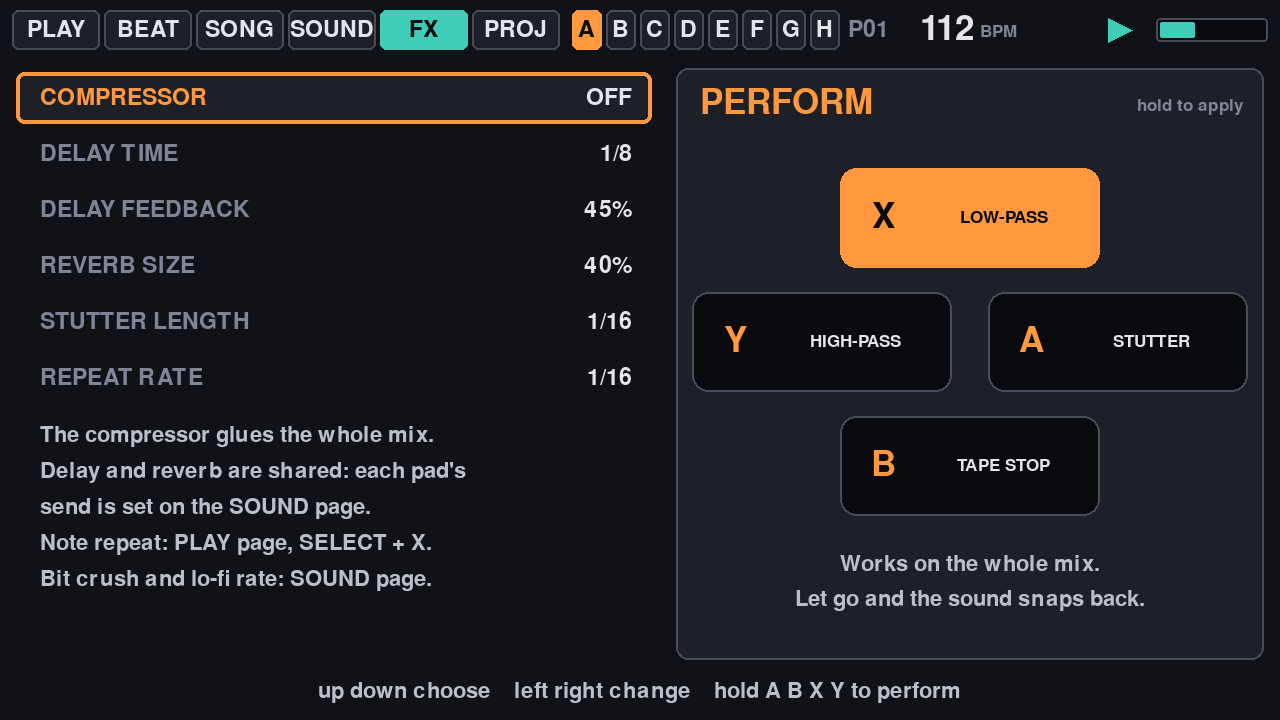
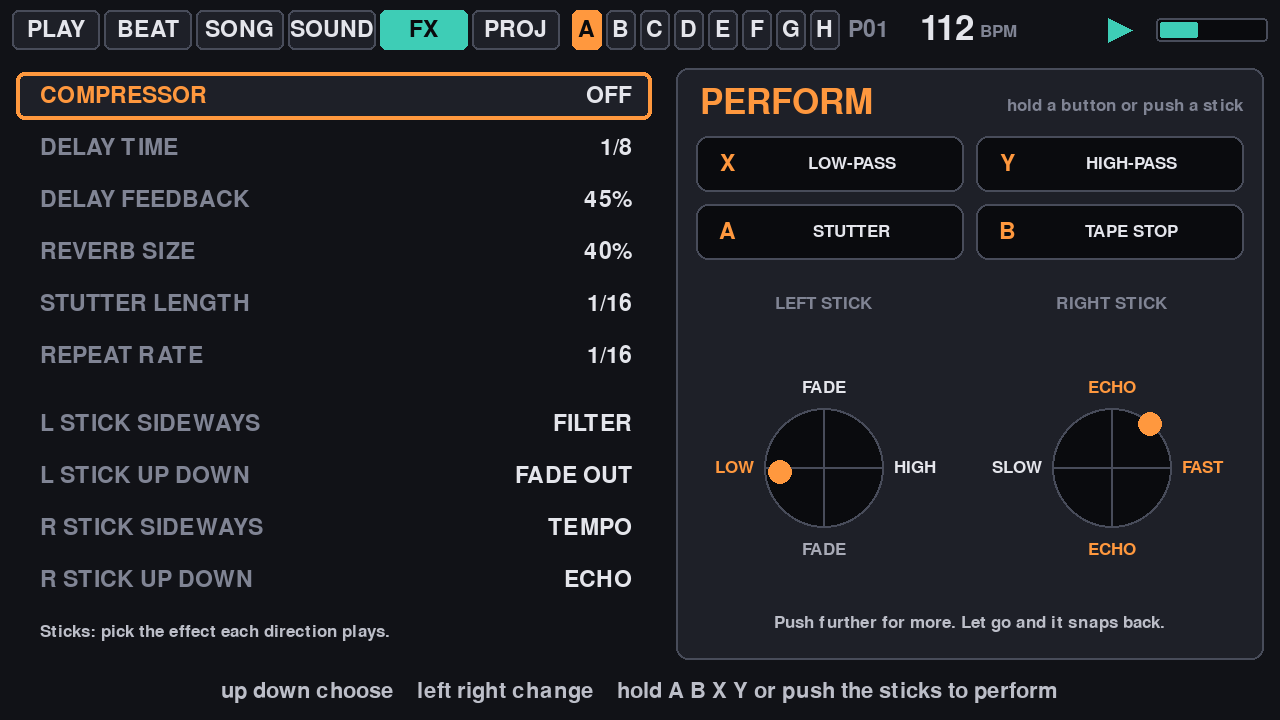
Stick performance effects on the FX page
Each stick direction plays a chosen effect by how far it is pushed: filter,
tempo bend, fade out, echo, reverb, stutter, crush, pan or tape stop.

diff --git a/site/index.html b/site/index.html
@@ -331,8 +331,8 @@ footer { max-width: 72rem; margin: 0 auto; padding: 2rem 1.5rem 3rem; border-top
 
   <div class="page">
     <figure class="screen">
-      <img src="img/fx.png" width="1280" height="720" loading="lazy" alt="FX page: delay, reverb, stutter and repeat settings on the left, and four hold-to-perform effects on the right with low-pass lit.">
-      <figcaption>The low-pass sweep lit while X is held.</figcaption>
+      <img src="img/fx.png" width="1280" height="720" loading="lazy" alt="FX page: compressor, delay, reverb and stick settings on the left; on the right four hold-to-perform buttons and two stick diagrams, the left stick pushed toward LOW and the right toward FAST and ECHO.">
+      <figcaption>Both sticks pushed: the filter closing, the tempo bending up, echo on.</figcaption>
     </figure>
     <div>
       <span class="tab">FX</span>
@@ -344,6 +344,15 @@ footer { max-width: 72rem; margin: 0 auto; padding: 2rem 1.5rem 3rem; border-top
         <dt><kbd class="face">X</kbd> hold</dt><dd>Low-pass sweep: the sound closes down and goes dark</dd>
         <dt><kbd class="face">Y</kbd> hold</dt><dd>High-pass sweep: the lows drop out</dd>
       </dl>
+      <p style="margin-top:1.1rem">The two sticks play effects by feel: the further you push, the more you get, and letting go ends it. Each stick has two directions, sideways and up-down, and the four rows at the bottom of the list choose what each one does.</p>
+      <ul>
+        <li><b>Filter.</b> Low-pass one way, high-pass the other.</li>
+        <li><b>Tempo.</b> Bends the beat slower or faster, then back to the set tempo.</li>
+        <li><b>Fade out.</b> Pulls the whole mix down to silence.</li>
+        <li><b>Echo and Reverb.</b> Throw the mix into the delay or the reverb.</li>
+        <li><b>Stutter.</b> Loops get shorter the further you push.</li>
+        <li><b>Crush, Pan and Tape stop.</b> Grit, a swing to one side, and the slow halt.</li>
+      </ul>
     </div>
   </div>
 

diff --git a/pocketpads/main.py b/pocketpads/main.py
@@ -119,6 +119,10 @@ class App:
         self.select_alone = False
         self.audition = None   # (pad, start time) while the SOUND page is playing a pad
         self.wheel, self.wheel_acc, self.wheel_seen = 0.0, 0.0, False
+        self.sticks = {"lx": 0.0, "ly": 0.0, "rx": 0.0, "ry": 0.0}      # both sticks, -1 to 1 (up is negative)
+        self.sticks_seen = set()
+        self.stick_level = {}
+        self.stick_fx = dict(self.STICK_DEFAULT)    # the effect chosen for each stick direction (FX page)
         self.perf_held = {}    # button -> performance effect it is holding
         self.slot = 1          # slot the PROJECT row points at
         self.loaded = 1        # slot the project in memory belongs to (autosave goes here)
@@ -147,6 +151,9 @@ class App:
                 state = json.load(f)
             self.slot = min(SLOTS, max(1, int(state.get("slot", 1))))
             self.midi.out_channel = int(state.get("midi_out", 0)) % 17
+            for axis, name in dict(state.get("sticks") or {}).items():
+                if axis in self.stick_fx and name in self.STICK_FX:
+                    self.stick_fx[axis] = name
         except (OSError, ValueError, TypeError, AttributeError):
             pass
         if not os.environ.get("PP_NOMIDI"):
@@ -235,6 +242,13 @@ class App:
             if name:
                 self.button(name, down)
         elif e.type == pygame.CONTROLLERAXISMOTION:
+            stick = {pygame.CONTROLLER_AXIS_LEFTX: "lx", pygame.CONTROLLER_AXIS_LEFTY: "ly",
+                     pygame.CONTROLLER_AXIS_RIGHTX: "rx", pygame.CONTROLLER_AXIS_RIGHTY: "ry"}.get(e.axis)
+            if stick:
+                self.sticks[stick] = e.value / 32768.0
+                if stick not in self.sticks_seen and abs(e.value) > 16000:
+                    self.sticks_seen.add(stick)
+                    self.logline("stick axis seen: %s" % stick)
             if e.axis == pygame.CONTROLLER_AXIS_RIGHTX:
                 self.wheel = e.value / 32768.0
                 if not self.wheel_seen and abs(self.wheel) > 0.5:
@@ -311,11 +325,29 @@ class App:
                 self.repeat[name] = now + 0.07
                 self.press(name, repeat=True)
 
+    def tick_sticks(self):
+        """On the FX page each stick direction plays the effect chosen for it: the further the push,
+        the more effect, and letting go ends it."""
+        e = self.eng
+        v = dict.fromkeys(("FILTER", "TEMPO", "PAN", "FADE OUT", "ECHO", "REVERB", "STUTTER", "CRUSH", "TAPE STOP"), 0.0)
+        if PAGES[self.page] == "FX" and not self.modal():
+            for axis, name in self.stick_fx.items():
+                x = self.sticks[axis] * (-1.0 if axis[1] == "y" else 1.0)      # up counts as positive
+                x = 0.0 if abs(x) < 0.25 else math.copysign(min(1.0, (abs(x) - 0.25) / 0.7), x)    # slack at the centre
+                if len(self.STICK_FX[name]) == 2:
+                    v[name] = x if abs(x) > abs(v[name]) else v[name]
+                elif name in v:
+                    v[name] = max(v[name], abs(x))
+        e.fx_filt, e.fx_tempo, e.fx_pan = v["FILTER"], v["TEMPO"], v["PAN"]
+        e.fx_fade, e.fx_echo, e.fx_verb = v["FADE OUT"], v["ECHO"], v["REVERB"] * 0.8
+        e.fx_stut, e.fx_crush, e.fx_tape = v["STUTTER"], v["CRUSH"], v["TAPE STOP"] > 0.5
+        self.stick_level = v
+
     def tick_wheel(self, dt):
         """The right stick is a data wheel: push it sideways to change the selected value."""
         v = self.wheel
         page = PAGES[self.page]
-        idle = page not in ("SOUND", "FX", "PROJ") and not (page == "SONG" and self.SONG_ROWS[self.song_row] == "LENGTH")
+        idle = page not in ("SOUND", "PROJ") and not (page == "SONG" and self.SONG_ROWS[self.song_row] == "LENGTH")
         if abs(v) < 0.25 or self.modal() or idle:
             self.wheel_acc = 0.0
             return
@@ -341,7 +373,7 @@ class App:
             self.eng.save(self.slot_path(slot))
             self.loaded = slot
             with open(STATE, "w") as f:
-                json.dump({"slot": slot, "midi_out": self.midi.out_channel}, f)
+                json.dump({"slot": slot, "midi_out": self.midi.out_channel, "sticks": self.stick_fx}, f)
             if not quiet:
                 self.say("SAVED P%02d" % slot)
         except OSError as e:
@@ -1000,7 +1032,15 @@ class App:
             t %= 1.0
         return max(0.0, t)
 
-    FX_ROWS = ["COMPRESSOR", "DELAY TIME", "DELAY FEEDBACK", "REVERB SIZE", "STUTTER LENGTH", "REPEAT RATE"]
+    FX_ROWS = ["COMPRESSOR", "DELAY TIME", "DELAY FEEDBACK", "REVERB SIZE", "STUTTER LENGTH", "REPEAT RATE",
+               "L STICK SIDEWAYS", "L STICK UP DOWN", "R STICK SIDEWAYS", "R STICK UP DOWN"]
+    STICK_ROWS = {"L STICK SIDEWAYS": "lx", "L STICK UP DOWN": "ly", "R STICK SIDEWAYS": "rx", "R STICK UP DOWN": "ry"}
+    # What a stick direction can do. Two labels: one effect each way (left or down first).
+    # One label: the same effect whichever way the stick is pushed.
+    STICK_FX = {"OFF": (), "FILTER": ("LOW", "HIGH"), "TEMPO": ("SLOW", "FAST"), "PAN": ("LEFT", "RIGHT"),
+                "FADE OUT": ("FADE",), "ECHO": ("ECHO",), "REVERB": ("REVERB",), "STUTTER": ("STUTTER",),
+                "CRUSH": ("CRUSH",), "TAPE STOP": ("TAPE",)}
+    STICK_DEFAULT = {"lx": "FILTER", "ly": "FADE OUT", "rx": "TEMPO", "ry": "ECHO"}
     PERFORM = {"A": ("stutter", "STUTTER"), "B": ("tape", "TAPE STOP"), "X": ("lp", "LOW-PASS"), "Y": ("hp", "HIGH-PASS")}
 
     def press_fx(self, b, sel):
@@ -1028,6 +1068,10 @@ class App:
                 e.stutter_div = (e.stutter_div + d) % len(STUTTERS)
             elif row == "REPEAT RATE":
                 e.repeat_div = (e.repeat_div + d) % len(RATES)
+            elif row in self.STICK_ROWS:
+                names = list(self.STICK_FX)
+                axis = self.STICK_ROWS[row]
+                self.stick_fx[axis] = names[(names.index(self.stick_fx[axis]) + d) % len(names)]
 
     PROJ_ROWS = (["RECORD MIC", "RESAMPLE", "EXPORT AUDIO", "PROJECT", "SAVE", "LOAD", "NEW", "TEMPO", "SWING", "MASTER", "MIDI OUT", "MIDI DEVICES"]
                  + (["IMPORT CHOPS", "GRAINBRICK"] if GB_DIR else []) + ["QUIT"])
@@ -1754,30 +1798,52 @@ class App:
         vals = {"COMPRESSOR": "%d%%" % round(e.comp * 100) if e.comp else "OFF", "DELAY TIME": DELAY_TIMES[e.delay_div][0], "DELAY FEEDBACK": "%d%%" % round(e.delay_fb * 100),
                 "REVERB SIZE": "%d%%" % round(e.reverb_size * 100), "STUTTER LENGTH": STUTTERS[e.stutter_div][0],
                 "REPEAT RATE": RATES[e.repeat_div][0]}
+        for row, axis in self.STICK_ROWS.items():
+            vals[row] = self.stick_fx[axis]
         for i, name in enumerate(self.FX_ROWS):
-            y = 36 + i * 28
+            y = 36 + i * 26 + (8 if name in self.STICK_ROWS else 0)
             on = i == self.fx_row
-            self.box(8, y, 318, 26, PANEL if on else None, ORANGE if on else None, 4, 2)
-            self.text(name, 20, y + 13, "m", ORANGE if on else DIM)
-            self.text(vals[name], 316, y + 13, "m", TEXT, "r")
-        notes = ["The compressor glues the whole mix.", "Delay and reverb are shared: each pad's",
-                 "send is set on the SOUND page.", "Note repeat: PLAY page, SELECT + X.",
-                 "Bit crush and lo-fi rate: SOUND page."]
-        for i, t in enumerate(notes):
-            self.text(t, 20, 218 + i * 18, "h", mix(DIM, TEXT, 0.6))
+            self.box(8, y, 318, 24, PANEL if on else None, ORANGE if on else None, 4, 2)
+            self.text(name, 20, y + 12, "m", ORANGE if on else DIM)
+            self.text(vals[name], 316, y + 12, "m", TEXT, "r")
+        self.text("Sticks: pick the effect each direction plays.", 20, 316, "s", mix(DIM, TEXT, 0.6))
         self.box(338, 34, 294, 296, PANEL, LINE, 6)
         self.text("PERFORM", 350, 52, "l", ORANGE)
-        self.text("hold to apply", 622, 53, "s", DIM, "r")
-        spots = {"X": (420, 84), "Y": (346, 146), "A": (494, 146), "B": (420, 208)}
+        self.text("hold a button or push a stick", 622, 53, "s", DIM, "r")
+        spots = {"X": (348, 68), "Y": (488, 68), "A": (348, 102), "B": (488, 102)}
         for btn, (x, y) in spots.items():
             fx, label = self.PERFORM[btn]
             on = e.perf[fx]
-            self.box(x, y, 130, 50, ORANGE if on else DARK, None if on else LINE, 8)
-            self.text(btn, x + 22, y + 25, "l", DARK if on else ORANGE, "c")
-            self.text(label, x + 82, y + 25, "s", DARK if on else TEXT, "c")
-        self.text("Works on the whole mix.", 485, 282, "h", mix(DIM, TEXT, 0.6), "c")
-        self.text("Let go and the sound snaps back.", 485, 300, "h", mix(DIM, TEXT, 0.6), "c")
-        self.hints("up down choose   left right change   hold A B X Y to perform")
+            self.box(x, y, 134, 28, ORANGE if on else DARK, None if on else LINE, 6)
+            self.text(btn, x + 16, y + 14, "m", DARK if on else ORANGE, "c")
+            self.text(label, x + 78, y + 14, "s", DARK if on else TEXT, "c")
+        # the two sticks: a dot shows the push, the effect it is reaching for lights up
+        live = PAGES[self.page] == "FX" and not self.modal()
+        lv = self.stick_level
+        for title, cx, ax, ay in (("LEFT STICK", 412, "lx", "ly"), ("RIGHT STICK", 556, "rx", "ry")):
+            cy, r = 234, 30
+            self.text(title, cx, 152, "s", DIM, "c")
+            self.box(cx - r, cy - r, r * 2, r * 2, DARK, LINE, r)
+            self.box(cx - r, cy - 0.5, r * 2, 1, LINE, None, 0)
+            self.box(cx - 0.5, cy - r, 1, r * 2, LINE, None, 0)
+            x, y = (self.sticks[ax], self.sticks[ay]) if live else (0.0, 0.0)
+            busy = False
+            # each direction's label, lit while that effect is sounding
+            for axis, lo_at, hi_at in ((ax, (cx - r - 5, cy, "r"), (cx + r + 5, cy, "l")),
+                                       (ay, (cx, cy + r + 11, "c"), (cx, cy - r - 10, "c"))):
+                name = self.stick_fx[axis]
+                labels = self.STICK_FX[name]
+                level = lv.get(name, 0.0)
+                busy = busy or bool(level)
+                if len(labels) == 2:
+                    self.text(labels[0], lo_at[0], lo_at[1], "s", ORANGE if level < 0 else TEXT, lo_at[2])
+                    self.text(labels[1], hi_at[0], hi_at[1], "s", ORANGE if level > 0 else TEXT, hi_at[2])
+                elif labels:
+                    self.text(labels[0], hi_at[0], hi_at[1], "s", ORANGE if level else TEXT, hi_at[2])
+                    self.text(labels[0], lo_at[0], lo_at[1], "s", ORANGE if level else mix(DIM, TEXT, 0.4), lo_at[2])
+            self.box(cx + x * (r - 6) - 6, cy + y * (r - 6) - 6, 12, 12, ORANGE if busy else DIM, None, 6)
+        self.text("Push further for more. Let go and it snaps back.", 485, 312, "s", mix(DIM, TEXT, 0.6), "c")
+        self.hints("up down choose   left right change   hold A B X Y or push the sticks to perform")
 
     def draw_proj(self):
         e = self.eng
@@ -1868,6 +1934,8 @@ class App:
                 self.button(cmd[1], cmd[0] == "down")
             elif cmd[0] == "wheel":
                 self.wheel = float(cmd[1])
+            elif cmd[0] == "stick":             # stick lx ly rx ry
+                self.sticks.update(zip(("lx", "ly", "rx", "ry"), map(float, cmd[1:5])))
             elif cmd[0] == "wait":
                 self.script_wait = time.time() + float(cmd[1])
             elif cmd[0] == "shot":
@@ -1891,7 +1959,7 @@ class App:
     def tick_midi(self):
         """Feed the MIDI port what it needs for clock, and act on what controllers sent."""
         e, m = self.eng, self.midi
-        m.bpm, m.playing = e.bpm, e.playing
+        m.bpm, m.playing = e.bpm * 1.5 ** e.fx_tempo, e.playing
         m.latency = (e.queue_blocks + 1) * BLOCK / SR
         if len(m.devices) < self.midi_seen:         # a controller was unplugged: let go of whatever it held
             for pad in self.midi_held.values():
@@ -1949,6 +2017,7 @@ class App:
             self.tick_record()
             self.flush_bake(force=False)
             self.tick_live()
+            self.tick_sticks()
             self.tick_wheel(1 / 30.0)
             self.tick_midi()
             if self.resampling and time.time() - self.resampling[0] > 60:

diff --git a/pocketpads/engine.py b/pocketpads/engine.py
@@ -554,7 +554,13 @@ class Engine:
         self.perf = {"lp": False, "hp": False, "stutter": False, "tape": False}
         self.hist = np.zeros((HSIZE, 2), np.float32)
         self.hw = 0
-        self._st_loop, self._st_pos = None, 0
+        self._st_loop, self._st_pos, self._st_steps = None, 0, 0.0
+        # Stick effects, set by the UI as plain numbers: how far each stick is pushed, 0 to 1
+        # (fx_filt is -1 to 1: low-pass to the left, high-pass to the right).
+        self.fx_filt = self.fx_echo = self.fx_verb = self.fx_fade = self.fx_crush = self.fx_stut = 0.0
+        self.fx_tempo = self.fx_pan = 0.0       # -1 to 1 as well: slower / faster, left / right
+        self.fx_tape = False
+        self._fade_g, self._crush_amt, self._pan = 1.0, 0.0, 0.0
         self._tape_pos, self._tape_rate, self._tape_was = None, 1.0, False
         self._fir_tail = np.zeros((TAPS - 1, 2), np.float32)
         self._fir_p, self._fir_hp, self._fir_on = 0.0, False, False
@@ -664,7 +670,8 @@ class Engine:
         return sum(self.patterns[i]["length"] for i in self.song)
 
     def step_frames(self):
-        return SR * 60.0 / self.bpm / 4.0
+        # fx_tempo is the stick's tempo bend: -1 is two thirds of the speed, +1 is half as fast again
+        return SR * 60.0 / (self.bpm * 1.5 ** self.fx_tempo) / 4.0
 
     # ----- rendering (audio thread)
     def _start_voice(self, pad, vel, off, gate=None, buf=None, manual=False, note=None):
@@ -845,6 +852,11 @@ class Engine:
                     rbus = np.zeros((n, 2), np.float32)
                 rbus[off:off + take] += chunk * rs
         self.voices = alive
+        echo, verb = self.fx_echo, self.fx_verb     # stick "throws": the whole mix into the delay or reverb
+        if echo > 0.0:
+            dbus = out * echo if dbus is None else dbus + out * echo
+        if verb > 0.0:
+            rbus = out * verb if rbus is None else rbus + out * verb
         d = int(min(Delay.SIZE - n, max(n, self.step_frames() * DELAY_TIMES[self.delay_div][1])))
         wet = self.delay.process(dbus, n, d, self.delay_fb)
         if wet is not None:
@@ -887,9 +899,13 @@ class Engine:
         mask = HSIZE - 1
         ar = _ar(n)
         self.hist[(self.hw + ar) & mask] = out
-        if pf["stutter"]:
-            if self._st_loop is None:
-                length = int(max(256, min(HSIZE // 2, self.step_frames() * STUTTERS[self.stutter_div][1])))
+        deep = self.fx_stut
+        if pf["stutter"] or deep > 0.0:
+            # From the stick the loop gets shorter the further it is pushed: 2 steps down to a quarter step.
+            steps = 2.0 * 0.5 ** min(3, int(deep * 4)) if deep > 0.0 else STUTTERS[self.stutter_div][1]
+            if self._st_loop is None or steps != self._st_steps:
+                self._st_steps = steps
+                length = int(max(256, min(HSIZE // 2, self.step_frames() * steps)))
                 loop = self.hist[(self.hw + n - length + np.arange(length)) & mask].copy()
                 f = min(64, length // 4)
                 loop[:f] *= np.linspace(0, 1, f, dtype=np.float32)[:, None]
@@ -900,7 +916,7 @@ class Engine:
             self._st_pos = (self._st_pos + n) % length
         else:
             self._st_loop = None
-        if pf["tape"]:
+        if pf["tape"] or self.fx_tape:
             if self._tape_pos is None:
                 self._tape_pos, self._tape_rate = float(self.hw), 1.0
             rates = np.maximum(0.0, self._tape_rate - (ar + 1) / (0.7 * SR))
@@ -920,7 +936,15 @@ class Engine:
         if held and self._fir_p <= 0:
             self._fir_hp = bool(pf["hp"])
         step = n / SR
-        self._fir_p = min(1.0, self._fir_p + step / 1.2) if held else max(0.0, self._fir_p - step / 0.15)
+        af = self.fx_filt
+        if af and not held:             # from the stick the filter follows the push instead of sweeping by itself
+            if self._fir_p <= 0:
+                self._fir_hp = af > 0
+            target = abs(af) if (af > 0) == self._fir_hp else 0.0      # crossing over: open up first, then flip
+            move = step / 0.08
+            self._fir_p = min(target, self._fir_p + move) if self._fir_p < target else max(target, self._fir_p - move)
+        else:
+            self._fir_p = min(1.0, self._fir_p + step / 1.2) if held else max(0.0, self._fir_p - step / 0.15)
         src = np.concatenate((self._fir_tail, out))
         self._fir_tail = src[-(TAPS - 1):].copy()
         if self._fir_p > 0 or self._fir_on:
@@ -937,6 +961,29 @@ class Engine:
                 r = np.linspace(0, 1, n, dtype=np.float32)[:, None]
                 out[:] = out * (1 - r) + wet * r if now_on else wet * (1 - r) + out * r
             self._fir_on = now_on
+        # stick crush: fewer bits and a held sample rate, deeper with the push
+        self._crush_amt += (self.fx_crush - self._crush_amt) * 0.5
+        c = self._crush_amt
+        if c > 0.02:
+            k = 1 + int(c * 23)
+            if k > 1:
+                out[:] = out[(ar // k) * k]
+            q = 2.0 ** (12.0 - 9.0 * c)
+            np.round(out * q, out=out)
+            out /= q
+        # stick fade: the whole output down to silence, back up when the stick is let go
+        g1 = (1.0 - min(1.0, max(0.0, self.fx_fade))) ** 2
+        g0 = self._fade_g
+        if g0 < 0.999 or g1 < 0.999:
+            out *= np.linspace(g0, g1, n, dtype=np.float32)[:, None]
+        self._fade_g = g1
+        # stick pan: swing the whole mix to one side
+        p0, p1 = self._pan, min(1.0, max(-1.0, self.fx_pan))
+        if p0 or p1:
+            pan = np.linspace(p0, p1, n, dtype=np.float32)
+            out[:, 0] *= np.minimum(1.0, 1.0 - pan)
+            out[:, 1] *= np.minimum(1.0, 1.0 + pan)
+        self._pan = p1
 
     def render_pcm(self, n):
         return (self.render(n) * 32767.0).astype("<i2")

diff --git a/pocketpads/tests/test_effects.py b/pocketpads/tests/test_effects.py
@@ -96,4 +96,23 @@ def loud(comp):
 (l0, q0), (l1, q1) = loud(0.0), loud(1.0)
 print("compressor: loud %.2f -> %.2f, quiet %.3f -> %.3f (range %.1fx -> %.1fx)" % (l0, l1, q0, q1, l0 / q0, l1 / q1))
 assert q1 > q0 * 1.8 and l1 / q1 < 0.6 * l0 / q0 and l1 <= 1.0
+# --- stick effects: analog amounts set by the UI
+import numpy as _n, engine as _g
+def _mix(**fx):
+    q = _g.Engine(); q.pads[0].raw = (_n.sin(_n.arange(_g.SR * 2) * 2 * _n.pi * 440 / _g.SR) * 0.5).astype(_n.float32)[:, None].repeat(2, 1)
+    q.pads[0].bake(); q.pads[0].mode = _g.LOOP if hasattr(_g, "LOOP") else q.pads[0].mode
+    for k, v in fx.items(): setattr(q, k, v)
+    q.trigger(0); return _n.concatenate([q.render(_g.BLOCK) for _ in range(40)])[4096:], q
+dry, _ = _mix()
+lvl = lambda a: float(_n.sqrt((a ** 2).mean()))
+assert lvl(_mix(fx_fade=1.0)[0]) < 0.001 and 0.1 < lvl(_mix(fx_fade=0.5)[0]) / lvl(dry) < 0.5
+a, _ = _mix(fx_pan=1.0); assert lvl(a[:, 0]) < 0.001 and abs(lvl(a[:, 1]) - lvl(dry[:, 1])) < 0.01
+assert lvl(_mix(fx_filt=1.0)[0]) < lvl(dry) * 0.5                     # 440 Hz under a 3.5 kHz high-pass
+assert len(_n.unique(_n.round(_mix(fx_crush=1.0)[0][:, 0], 5))) < 40    # few levels left
+assert lvl(_mix(fx_echo=1.0)[0] - dry) > 0.01 and lvl(_mix(fx_verb=0.8)[0] - dry) > 0.01
+for fx in ({"fx_stut": 1.0}, {"fx_tape": True}, {"fx_filt": -1.0}):
+    a, _ = _mix(**fx); assert _n.isfinite(a).all() and _n.abs(a).max() <= 1.0
+q = _g.Engine(); q.bpm = 120; sf = q.step_frames(); q.fx_tempo = 1.0; assert abs(sf / q.step_frames() - 1.5) < 1e-6
+q.fx_tempo = -1.0; assert abs(q.step_frames() / sf - 1.5) < 1e-6
+print("stick effects: fade, pan, filter, crush, echo, reverb, stutter, tape, tempo bend")
 print("ALL FX OK")

diff --git a/README.md b/README.md
@@ -13,6 +13,7 @@ A 64-pad sample sequencer and sampler (four banks of sixteen pads) for Linux han
 - 64 pads in four banks of sixteen, a step grid of 16 to 128 steps with accents and a note per step, eight patterns, sixteen project slots
 - Song mode: chain patterns in order, copy and clear patterns
 - Lo-fi per pad (bit crush, sample-rate reduction) and a master compressor
+- Analog sticks play performance effects (filter, tempo bend, fade, echo, reverb, stutter, crush, pan, tape stop), with the effect for each direction chosen on the FX page
 - Export the song or pattern as a WAV file
 - MIDI through the ALSA sequencer: controllers play pads and turn knobs; pads send notes, clock, start and stop (new, not yet tried with real hardware)
 - Per pad: volume, pitch and fine tune, one-knob filter, trim, fades, reverse, choke group, delay and reverb sends, and one-shot, hold or loop play modes
